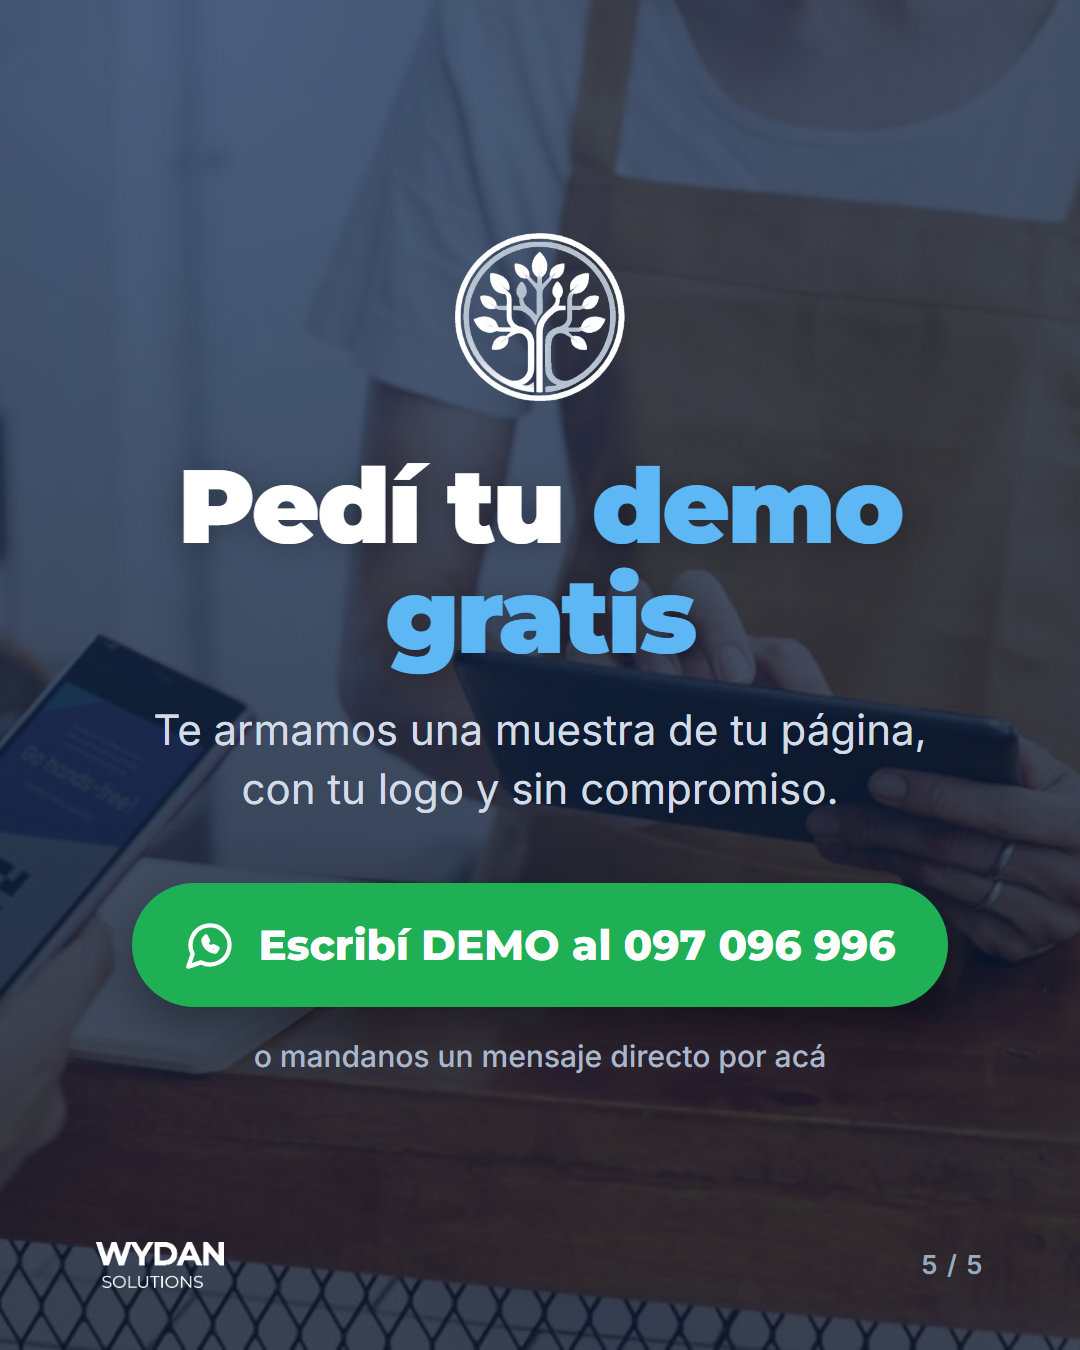
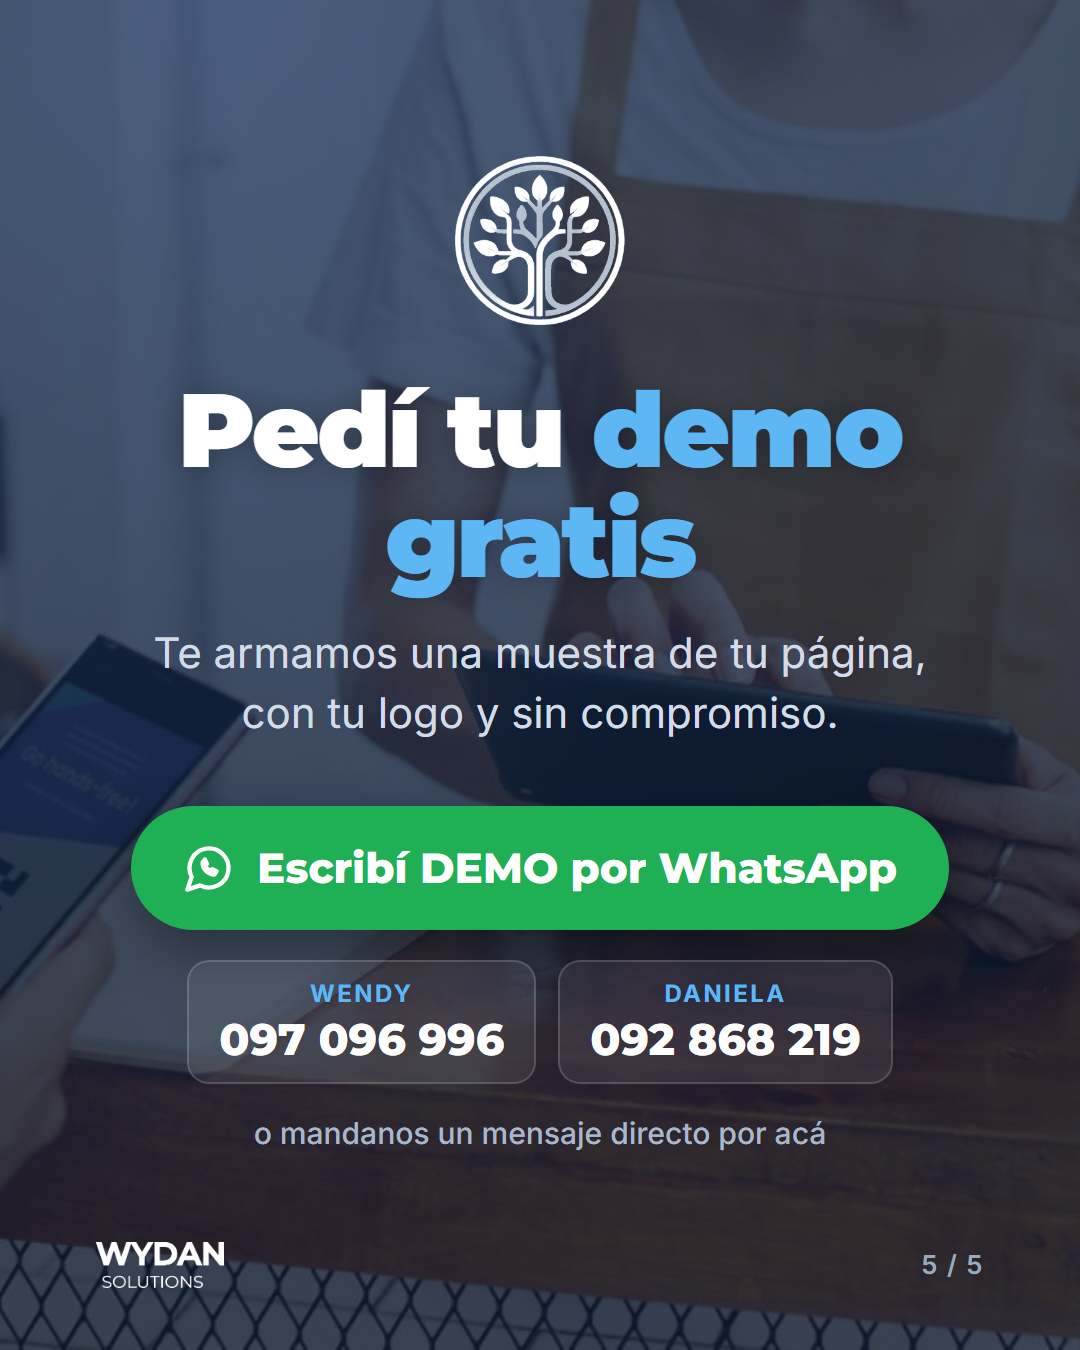
Los dos WhatsApp (Wendy y Daniela) en los textos y en las imágenes de cierre

Changed region(s): [[0.1222, 0.0933, 0.8861, 0.8711]]

diff --git a/publicaciones.js b/publicaciones.js
@@ -5,8 +5,9 @@
 // foto: archivo dentro de img/ (fotos/… de Pexels, ver img/fotos/fuentes.json; paginas/… = captura de una demo).
 // pos: qué parte de la foto se ve (como background-position). sticker: la etiqueta inclinada de la portada.
 
+// Los dos WhatsApp de Wydan (los mismos de la página comercial, Wydan-Web). Van los dos en textos e imágenes
+// (decisión de la usuaria, 29/10/2026). WHATSAPP queda para el enlace de la bio y el sticker de las historias.
 const WHATSAPP = '097 096 996';
-// Los dos WhatsApp de Wydan (los mismos de la página comercial, Wydan-Web). WHATSAPP es el que va en los botones.
 const CONTACTOS = [
   { nombre: 'Wendy', numero: '097 096 996' },
   { nombre: 'Daniela', numero: '092 868 219' },
@@ -14,7 +15,10 @@ const CONTACTOS = [
 
 const HASHTAGS = '#Wydan #PymesUruguay #EmprendedoresUruguay #Rivera #Uruguay';
 
-const CIERRE = `👉 Escribí DEMO por WhatsApp al ${WHATSAPP} (o por mensaje directo) y te armamos una demostración gratis, con tu logo.`;
+const CIERRE = `👉 Escribí DEMO por WhatsApp y te armamos una demostración gratis, con tu logo:
+📱 Wendy: ${CONTACTOS[0].numero}
+📱 Daniela: ${CONTACTOS[1].numero}
+(o mandanos un mensaje directo por acá)`;
 
 const CTA_COMUN = {
   tipo: 'cta',

diff --git a/index.html b/index.html
@@ -188,7 +188,7 @@ Tu negocio ordenado en una página hecha para vos
   <div id="publicaciones"></div>
 </div>
 
-<script src="publicaciones.js?v=202610291756"></script>
+<script src="publicaciones.js?v=202610291758"></script>
 <script>
   const VIDEOS = 'videos/';
   const carpeta = p => `imagenes/${String(p.n).padStart(2, '0')}-${p.id}/`;
